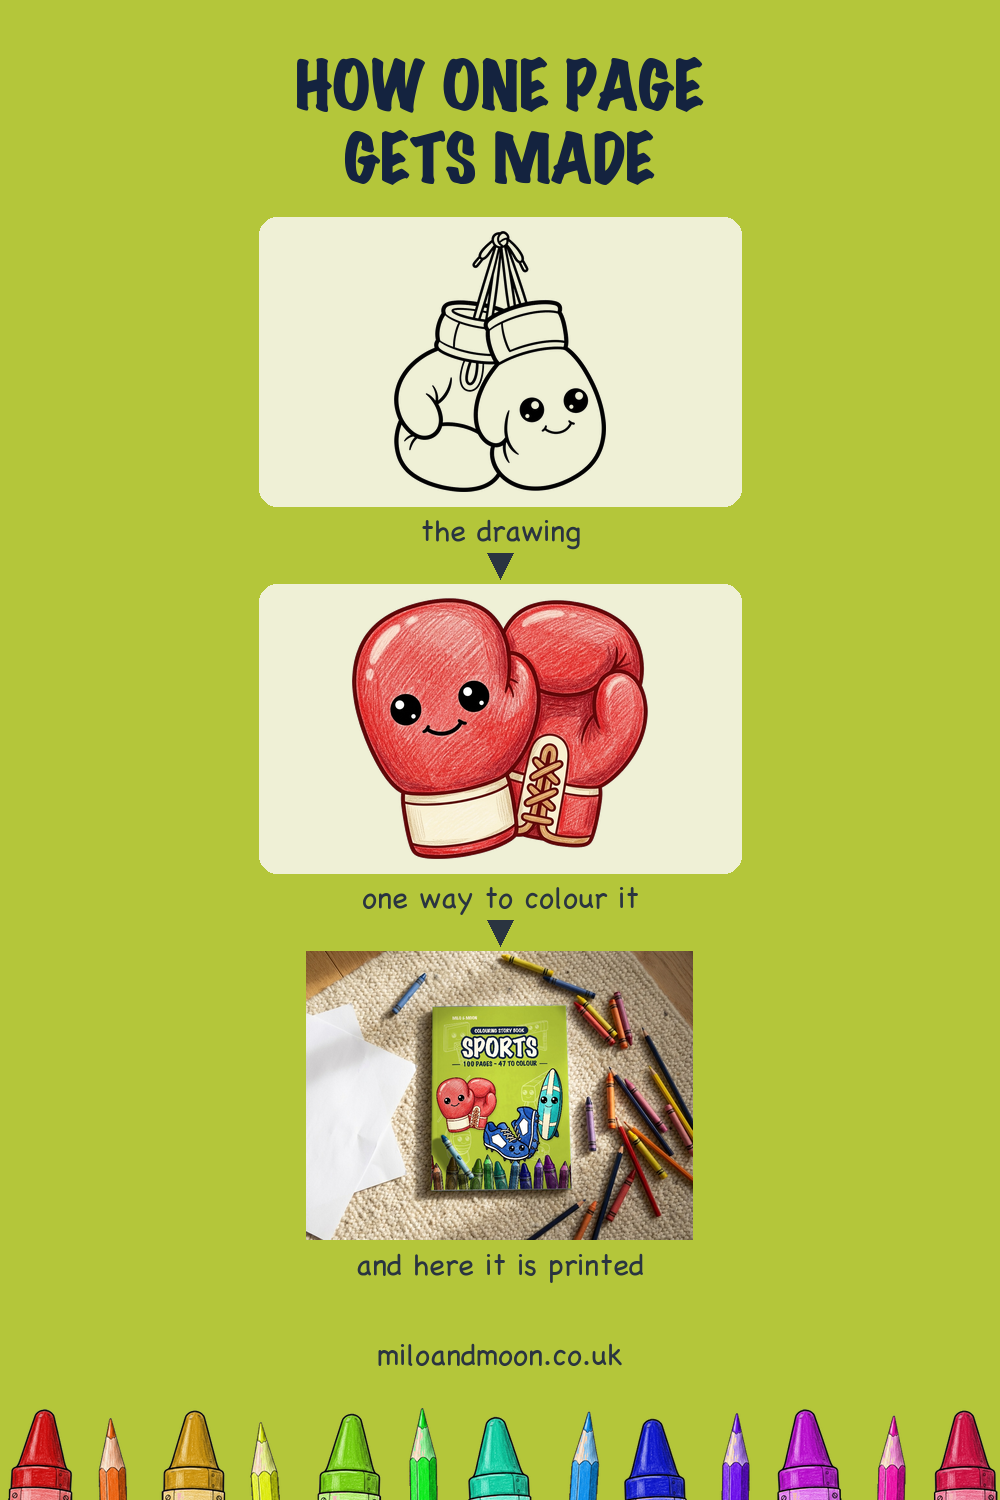
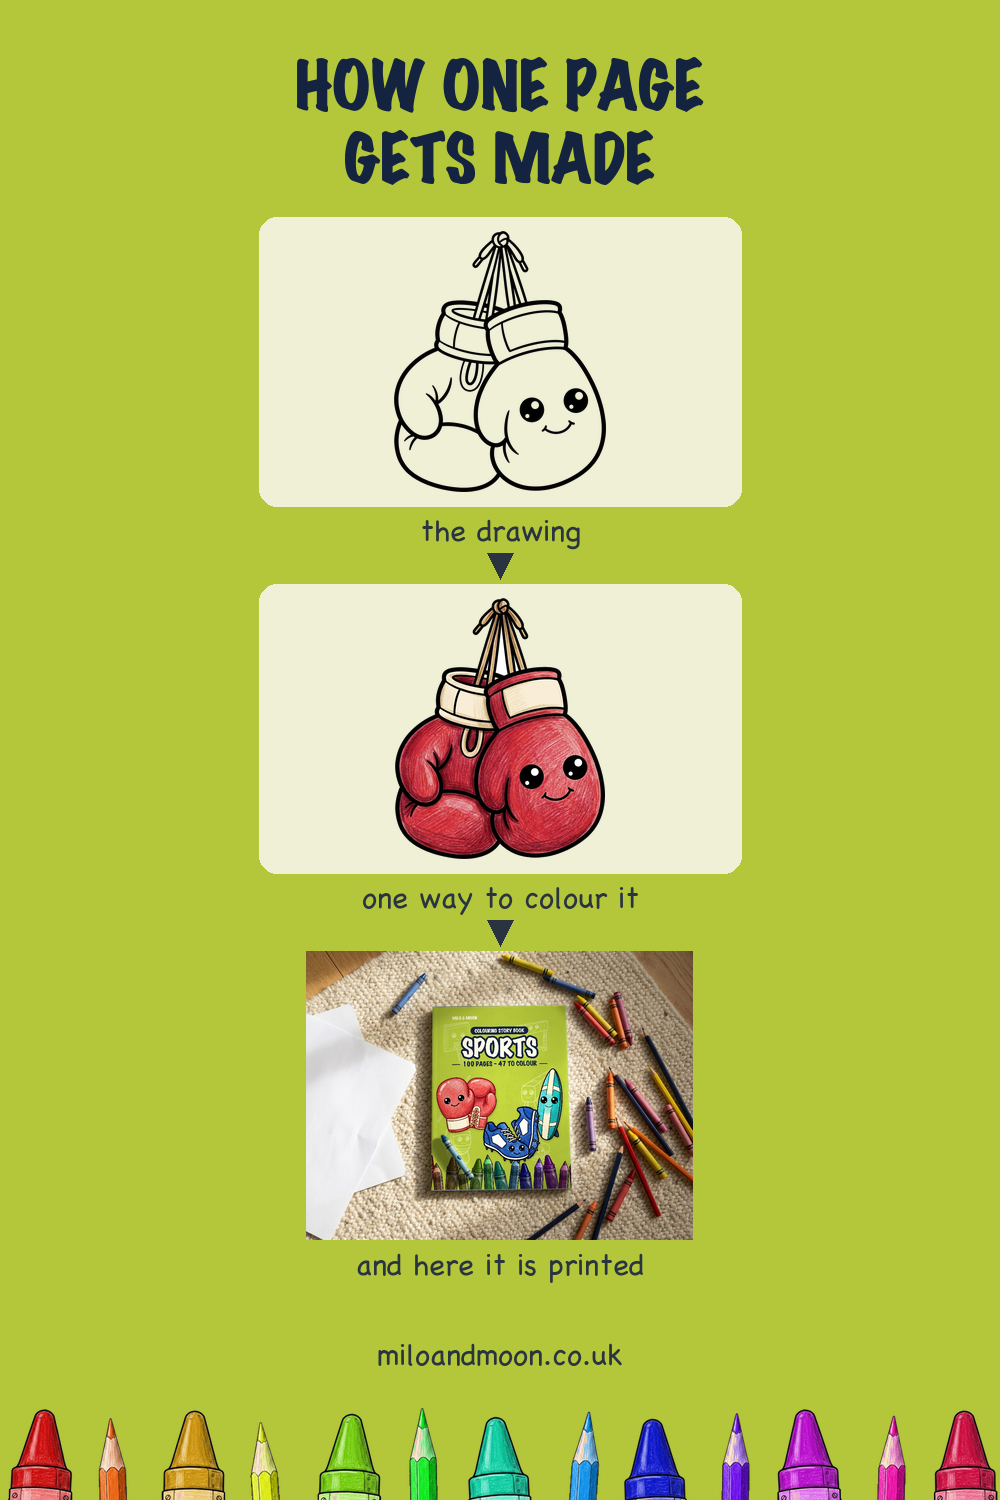
Sports: corrected boxing-gloves cut-out reaches the pin
The coloured cut-out drew the gloves STANDING; interior p32 draws them
hanging from a knotted lace, face on the other glove. Root cause was the
prose in cover-art.md, not the refs: line — the prompt out-votes the
reference. Prompt rewritten to describe the page, art regenerated.

Also carries the Birds US pages from the current build.

Changed region(s): [[0.341, 0.3987, 0.651, 0.5827]]

diff --git a/us/books/birds/index.html b/us/books/birds/index.html
@@ -1,59 +1,59 @@
 <!doctype html>
-<html lang="en-GB">
+<html lang="en-US">
 <head>
 <meta charset="utf-8">
 <meta name="viewport" content="width=device-width, initial-scale=1">
 <meta name="p:domain_verify" content="a6b9eee8fa39a5cff36a09a78f4cf652">
 <title>Birds — Milo &amp; Moon</title>
-<meta name="description" content="One story. Forty-six birds and one barn. A Story and Colouring Book for Kids Ages 4-8. 47 big pictures to colour and one rhyming story, for ages 4 to 8.">
-<link rel="canonical" href="https://miloandmoon.co.uk/books/birds/">
+<meta name="description" content="One story. Forty-six birds and one barn. A Story and Coloring Book for Kids Ages 4-8. 47 big pictures to color and one rhyming story, for ages 4 to 8.">
+<link rel="canonical" href="https://miloandmoon.co.uk/us/books/birds/">
 <link rel="alternate" hreflang="en-GB" href="https://miloandmoon.co.uk/books/birds/">
 <link rel="alternate" hreflang="en-US" href="https://miloandmoon.co.uk/us/books/birds/">
 <link rel="alternate" hreflang="x-default" href="https://miloandmoon.co.uk/books/birds/">
 <meta property="og:type" content="website">
 <meta property="og:site_name" content="Milo &amp; Moon">
-<meta property="og:locale" content="en_GB">
+<meta property="og:locale" content="en_US">
 <meta property="og:title" content="Birds — Milo &amp; Moon">
-<meta property="og:description" content="One story. Forty-six birds and one barn. A Story and Colouring Book for Kids Ages 4-8. 47 big pictures to colour and one rhyming story, for ages 4 to 8.">
-<meta property="og:url" content="https://miloandmoon.co.uk/books/birds/">
-<meta property="og:image" content="https://miloandmoon.co.uk/books/birds/cover-uk.jpg">
+<meta property="og:description" content="One story. Forty-six birds and one barn. A Story and Coloring Book for Kids Ages 4-8. 47 big pictures to color and one rhyming story, for ages 4 to 8.">
+<meta property="og:url" content="https://miloandmoon.co.uk/us/books/birds/">
+<meta property="og:image" content="https://miloandmoon.co.uk/books/birds/cover-us.jpg">
 <meta name="twitter:card" content="summary_large_image">
-<meta name="twitter:image" content="https://miloandmoon.co.uk/books/birds/cover-uk.jpg">
+<meta name="twitter:image" content="https://miloandmoon.co.uk/books/birds/cover-us.jpg">
 <link rel="stylesheet" href="/style.css?v=6da632d3">
 <link rel="icon" href="/favicon.ico" sizes="any">
 <link rel="icon" href="/favicon-32.png" type="image/png" sizes="32x32">
 <link rel="apple-touch-icon" href="/apple-touch-icon.png">
-<script type="application/ld+json">{"@context": "https://schema.org", "@type": "Book", "name": "Birds", "author": {"@type": "Organization", "name": "Milo & Moon"}, "publisher": {"@type": "Organization", "name": "Milo & Moon"}, "bookFormat": "https://schema.org/Paperback", "inLanguage": "en-GB", "numberOfPages": 100, "isbn": "9798170923885", "image": "https://miloandmoon.co.uk/books/birds/cover-uk.jpg", "description": "Summer is ending, and the swallows have one last message to send. Bram sets off with it - and every bird he meets carries it a little further from home.", "typicalAgeRange": "4-8"}</script>
+<script type="application/ld+json">{"@context": "https://schema.org", "@type": "Book", "name": "Birds", "author": {"@type": "Organization", "name": "Milo & Moon"}, "publisher": {"@type": "Organization", "name": "Milo & Moon"}, "bookFormat": "https://schema.org/Paperback", "inLanguage": "en-US", "numberOfPages": 100, "isbn": "9798170924264", "image": "https://miloandmoon.co.uk/books/birds/cover-us.jpg", "description": "Summer is ending, and the swallows have one last message to send. Bram sets off with it - and every bird he meets carries it a little further from home.", "typicalAgeRange": "4-8"}</script>
 </head>
 <body style="--field:#D1F4FF">
 <a class="skip" href="#main">Skip to content</a>
 <header class="site">
-  <a class="brand" href="/">
+  <a class="brand" href="/us/">
     <img src="/brand/logo.png" alt="" width="515" height="520">
     <span>Milo &amp; Moon</span>
   </a>
   <nav>
-    <a href="/kids/colouring-story-books/">Colouring Story Books</a>
-    <a href="/colours/">Colour in</a>
+    <a href="/us/kids/coloring-story-books/">Coloring Story Books</a>
+    <a href="/colors/">Color in</a>
     <label class="lang">
       <span class="vh">Edition</span>
-      <select onchange="location.href=this.value"><option value="/books/birds/" selected>United Kingdom</option><option value="/us/books/birds/">United States</option></select>
+      <select onchange="location.href=this.value"><option value="/books/birds/">United Kingdom</option><option value="/us/books/birds/" selected>United States</option></select>
     </label>
   </nav>
 </header>
 <main id="main">
 
   <article class="title">
-    <div class="art"><picture><source srcset="/books/birds/cover-uk.webp" type="image/webp"><img src="/books/birds/cover-uk.jpg" alt="Front cover of BIRDS, a colouring story book" width="900" height="1165"></picture></div>
+    <div class="art"><picture><source srcset="/books/birds/cover-us.webp" type="image/webp"><img src="/books/birds/cover-us.jpg" alt="Front cover of BIRDS, a coloring story book" width="900" height="1165"></picture></div>
     <div class="copy">
-      <p class="eyebrow">Colouring Story Book</p>
+      <p class="eyebrow">Coloring Story Book</p>
       <h1>Birds</h1>
-      <p class="sub">A Story and Colouring Book for Kids Ages 4-8</p>
+      <p class="sub">A Story and Coloring Book for Kids Ages 4-8</p>
       <p class="lede">One story. Forty-six birds and one barn.</p>
       <p>Summer is ending, and the swallows have one last message to send. Bram sets off with it - and every bird he meets carries it a little further from home.</p>
-      <ul class="bullets"><li>47 big, simple pictures to colour</li><li>A real story, told in rhyme</li><li>Bold clear lines for small hands</li><li>Best with pencils and crayons, not felt-tips</li></ul>
-      <p class="buy soon">Coming soon — <a href="/colours/">see pages we coloured in</a> while you wait.</p>
-      <p class="isbn">ISBN 9798170923885</p>
+      <ul class="bullets"><li>47 big, simple pictures to color</li><li>A real story, told in rhyme</li><li>Bold clear lines for small hands</li><li>Best with pencils and crayons, not markers</li></ul>
+      <p class="buy soon">Coming soon — <a href="/colors/">see pages we colored in</a> while you wait.</p>
+      <p class="isbn">ISBN 9798170924264</p>
     </div>
   </article>
 
@@ -61,11 +61,11 @@
 <div class="crayons" role="presentation"></div>
 <footer class="site">
   <img src="/brand/logo.png" alt="" width="515" height="520">
-  <p><strong>Milo &amp; Moon</strong> makes rhyming picture books to read out loud and colour in.</p>
+  <p><strong>Milo &amp; Moon</strong> makes rhyming picture books to read out loud and color in.</p>
   <p><a href="mailto:hello@miloandmoon.co.uk">hello@miloandmoon.co.uk</a></p>
   <p class="social"><a href="https://www.pinterest.co.uk/miloandmoonbooks/" rel="me noopener" aria-label="Pinterest" title="Pinterest"><svg viewBox="0 0 24 24" width="24" height="24" aria-hidden="true"><path fill="currentColor" d="M12 2a10 10 0 0 0-3.6 19.3c-.1-.8-.2-2 0-2.9l1.2-5.1s-.3-.6-.3-1.5c0-1.4.8-2.4 1.8-2.4.9 0 1.3.6 1.3 1.4 0 .9-.5 2.2-.8 3.4-.2 1 .5 1.8 1.5 1.8 1.8 0 3.2-1.9 3.2-4.7 0-2.4-1.8-4.1-4.3-4.1-2.9 0-4.6 2.2-4.6 4.5 0 .9.3 1.8.8 2.3.1.1.1.2.1.3l-.3 1.1c0 .2-.1.2-.3.1-1.3-.6-2-2.4-2-3.9 0-3.2 2.3-6.1 6.7-6.1 3.5 0 6.2 2.5 6.2 5.8 0 3.5-2.2 6.3-5.2 6.3-1 0-2-.5-2.3-1.2l-.6 2.4c-.2.9-.8 2-1.2 2.6A10 10 0 1 0 12 2z"/></svg></a><a href="https://www.facebook.com/miloandmoonbooks" rel="me noopener" aria-label="Facebook" title="Facebook"><svg viewBox="0 0 24 24" width="24" height="24" aria-hidden="true"><path fill="currentColor" d="M22 12a10 10 0 1 0-11.6 9.9v-7H7.9V12h2.5V9.8c0-2.5 1.5-3.9 3.8-3.9 1.1 0 2.2.2 2.2.2v2.5h-1.3c-1.2 0-1.6.8-1.6 1.6V12h2.8l-.4 2.9h-2.4v7A10 10 0 0 0 22 12z"/></svg></a><a href="https://www.instagram.com/miloandmoonbooks/" rel="me noopener" aria-label="Instagram" title="Instagram"><svg viewBox="0 0 24 24" width="24" height="24" aria-hidden="true"><path fill="currentColor" d="M12 2.2c3.2 0 3.6 0 4.9.1 3.3.1 4.8 1.7 4.9 4.9.1 1.3.1 1.7.1 4.8s0 3.6-.1 4.9c-.1 3.2-1.7 4.8-4.9 4.9-1.3.1-1.7.1-4.9.1s-3.6 0-4.9-.1c-3.2-.1-4.8-1.7-4.9-4.9C2.2 15.6 2.2 15.2 2.2 12s0-3.6.1-4.9c.1-3.2 1.7-4.8 4.9-4.9 1.3-.1 1.7-.1 4.8-.1zm0 3.1a6.7 6.7 0 1 0 0 13.4 6.7 6.7 0 0 0 0-13.4zm0 11a4.3 4.3 0 1 1 0-8.6 4.3 4.3 0 0 1 0 8.6zm6.9-11.2a1.6 1.6 0 1 0 0 3.1 1.6 1.6 0 0 0 0-3.1z"/></svg></a></p>
-  <p class="fine">You are reading the United Kingdom edition.
-     <a href="/us/books/birds/">Switch to United States</a>.</p>
+  <p class="fine">You are reading the United States edition.
+     <a href="/books/birds/">Switch to United Kingdom</a>.</p>
   <p class="fine">No cookies. No tracking. No forms. Nothing to consent to.
      <a href="/privacy/">Privacy</a></p>
 </footer>

diff --git a/us/kids/coloring-story-books/index.html b/us/kids/coloring-story-books/index.html
@@ -23,7 +23,7 @@
 <link rel="icon" href="/favicon.ico" sizes="any">
 <link rel="icon" href="/favicon-32.png" type="image/png" sizes="32x32">
 <link rel="apple-touch-icon" href="/apple-touch-icon.png">
-<script type="application/ld+json">{"@context": "https://schema.org", "@type": "ItemList", "name": "Coloring Story Books", "itemListElement": [{"@type": "ListItem", "position": 1, "url": "https://miloandmoon.co.uk/us/books/animals/", "name": "Animals"}, {"@type": "ListItem", "position": 2, "url": "https://miloandmoon.co.uk/us/books/butterflies-flowers/", "name": "Butterflies & Flowers"}, {"@type": "ListItem", "position": 3, "url": "https://miloandmoon.co.uk/us/books/christmas/", "name": "Christmas"}, {"@type": "ListItem", "position": 4, "url": "https://miloandmoon.co.uk/us/books/dinosaurs/", "name": "Dinosaurs"}, {"@type": "ListItem", "position": 5, "url": "https://miloandmoon.co.uk/us/books/mermaids/", "name": "Mermaids"}, {"@type": "ListItem", "position": 6, "url": "https://miloandmoon.co.uk/us/books/sea-creatures/", "name": "Sea Creatures"}, {"@type": "ListItem", "position": 7, "url": "https://miloandmoon.co.uk/us/books/unicorns/", "name": "Unicorns"}, {"@type": "ListItem", "position": 8, "url": "https://miloandmoon.co.uk/us/books/vehicles/", "name": "Vehicles"}]}</script>
+<script type="application/ld+json">{"@context": "https://schema.org", "@type": "ItemList", "name": "Coloring Story Books", "itemListElement": [{"@type": "ListItem", "position": 1, "url": "https://miloandmoon.co.uk/us/books/animals/", "name": "Animals"}, {"@type": "ListItem", "position": 2, "url": "https://miloandmoon.co.uk/us/books/birds/", "name": "Birds"}, {"@type": "ListItem", "position": 3, "url": "https://miloandmoon.co.uk/us/books/butterflies-flowers/", "name": "Butterflies & Flowers"}, {"@type": "ListItem", "position": 4, "url": "https://miloandmoon.co.uk/us/books/christmas/", "name": "Christmas"}, {"@type": "ListItem", "position": 5, "url": "https://miloandmoon.co.uk/us/books/dinosaurs/", "name": "Dinosaurs"}, {"@type": "ListItem", "position": 6, "url": "https://miloandmoon.co.uk/us/books/mermaids/", "name": "Mermaids"}, {"@type": "ListItem", "position": 7, "url": "https://miloandmoon.co.uk/us/books/sea-creatures/", "name": "Sea Creatures"}, {"@type": "ListItem", "position": 8, "url": "https://miloandmoon.co.uk/us/books/unicorns/", "name": "Unicorns"}, {"@type": "ListItem", "position": 9, "url": "https://miloandmoon.co.uk/us/books/vehicles/", "name": "Vehicles"}]}</script>
 </head>
 <body style="--field:#FBECD5">
 <a class="skip" href="#main">Skip to content</a>
@@ -57,9 +57,18 @@
           <span class="market soon">coming soon</span>
         </div>
       </a>
+      <a class="book" href="/us/books/birds/"
+         style="--field:#D1F4FF;--tilt:2.2deg">
+        <span class="shelf"><picture><source srcset="/books/birds/cover-us.webp" type="image/webp"><img src="/books/birds/cover-us.jpg" alt="Birds, a coloring story book" width="900" height="1165"></picture></span>
+        <div class="meta">
+          <h2 class="bt">Birds</h2>
+          <span class="bd">One story. Forty-six birds and one barn.</span>
+          <span class="market soon">coming soon</span>
+        </div>
+      </a>
       <a class="book" href="/us/books/butterflies-flowers/"
-         style="--field:#FFE6E6;--tilt:2.2deg">
-        <span class="shelf"><picture><source srcset="/books/butterflies-flowers/cover-us.webp" type="image/webp"><img src="/books/butterflies-flowers/cover-us.jpg" alt="Butterflies &amp; Flowers, a coloring story book" width="900" height="1165"></picture></span>
+         style="--field:#FFE6E6;--tilt:-1.6deg">
+        <span class="shelf"><picture><source srcset="/books/butterflies-flowers/cover-us.webp" type="image/webp"><img src="/books/butterflies-flowers/cover-us.jpg" alt="Butterflies &amp; Flowers, a coloring story book" width="900" height="1165" loading="lazy"></picture></span>
         <div class="meta">
           <h2 class="bt">Butterflies &amp; Flowers</h2>
           <span class="bd">One story. Butterflies, flowers, and one caterpillar.</span>
@@ -67,7 +76,7 @@
         </div>
       </a>
       <a class="book" href="/us/books/christmas/"
-         style="--field:#DCF4E1;--tilt:-1.6deg">
+         style="--field:#DCF4E1;--tilt:3.0deg">
         <span class="shelf"><picture><source srcset="/books/christmas/cover-us.webp" type="image/webp"><img src="/books/christmas/cover-us.jpg" alt="Christmas, a coloring story book" width="900" height="1165" loading="lazy"></picture></span>
         <div class="meta">
           <h2 class="bt">Christmas</h2>
@@ -76,7 +85,7 @@
         </div>
       </a>
       <a class="book" href="/us/books/dinosaurs/"
-         style="--field:#E2F3DC;--tilt:3.0deg">
+         style="--field:#E2F3DC;--tilt:-2.4deg">
         <span class="shelf"><picture><source srcset="/books/dinosaurs/cover-us.webp" type="image/webp"><img src="/books/dinosaurs/cover-us.jpg" alt="Dinosaurs, a coloring story book" width="900" height="1165" loading="lazy"></picture></span>
         <div class="meta">
           <h2 class="bt">Dinosaurs</h2>
@@ -85,7 +94,7 @@
         </div>
       </a>
       <a class="book" href="/us/books/mermaids/"
-         style="--field:#FFE6F6;--tilt:-2.4deg">
+         style="--field:#FFE6F6;--tilt:1.4deg">
         <span class="shelf"><picture><source srcset="/books/mermaids/cover-us.webp" type="image/webp"><img src="/books/mermaids/cover-us.jpg" alt="Mermaids, a coloring story book" width="900" height="1165" loading="lazy"></picture></span>
         <div class="meta">
           <h2 class="bt">Mermaids</h2>
@@ -94,7 +103,7 @@
         </div>
       </a>
       <a class="book" href="/us/books/sea-creatures/"
-         style="--field:#D0F5F1;--tilt:1.4deg">
+         style="--field:#D0F5F1;--tilt:-3.0deg">
         <span class="shelf"><picture><source srcset="/books/sea-creatures/cover-us.webp" type="image/webp"><img src="/books/sea-creatures/cover-us.jpg" alt="Sea Creatures, a coloring story book" width="900" height="1165" loading="lazy"></picture></span>
         <div class="meta">
           <h2 class="bt">Sea Creatures</h2>
@@ -103,7 +112,7 @@
         </div>
       </a>
       <a class="book" href="/us/books/unicorns/"
-         style="--field:#F3EAFF;--tilt:-3.0deg">
+         style="--field:#F3EAFF;--tilt:2.2deg">
         <span class="shelf"><picture><source srcset="/books/unicorns/cover-us.webp" type="image/webp"><img src="/books/unicorns/cover-us.jpg" alt="Unicorns, a coloring story book" width="900" height="1165" loading="lazy"></picture></span>
         <div class="meta">
           <h2 class="bt">Unicorns</h2>
@@ -112,7 +121,7 @@
         </div>
       </a>
       <a class="book" href="/us/books/vehicles/"
-         style="--field:#FBECD5;--tilt:2.2deg">
+         style="--field:#FBECD5;--tilt:-1.6deg">
         <span class="shelf"><picture><source srcset="/books/vehicles/cover-us.webp" type="image/webp"><img src="/books/vehicles/cover-us.jpg" alt="Vehicles, a coloring story book" width="900" height="1165" loading="lazy"></picture></span>
         <div class="meta">
           <h2 class="bt">Vehicles</h2>

diff --git a/us/index.html b/us/index.html
@@ -55,32 +55,36 @@
          style="--tilt:-3.0deg;--field:#FFE7DC">
         <picture><source srcset="/books/animals/cover-us.webp" type="image/webp"><img src="/books/animals/cover-us.jpg" alt="Animals, a coloring story book" width="900" height="1165"></picture>
       </a>
+      <a class="fanned" href="/us/books/birds/"
+         style="--tilt:2.2deg;--field:#D1F4FF">
+        <picture><source srcset="/books/birds/cover-us.webp" type="image/webp"><img src="/books/birds/cover-us.jpg" alt="Birds, a coloring story book" width="900" height="1165"></picture>
+      </a>
       <a class="fanned" href="/us/books/butterflies-flowers/"
-         style="--tilt:2.2deg;--field:#FFE6E6">
+         style="--tilt:-1.6deg;--field:#FFE6E6">
         <picture><source srcset="/books/butterflies-flowers/cover-us.webp" type="image/webp"><img src="/books/butterflies-flowers/cover-us.jpg" alt="Butterflies &amp; Flowers, a coloring story book" width="900" height="1165"></picture>
       </a>
       <a class="fanned" href="/us/books/christmas/"
-         style="--tilt:-1.6deg;--field:#DCF4E1">
-        <picture><source srcset="/books/christmas/cover-us.webp" type="image/webp"><img src="/books/christmas/cover-us.jpg" alt="Christmas, a coloring story book" width="900" height="1165"></picture>
+         style="--tilt:3.0deg;--field:#DCF4E1">
+        <picture><source srcset="/books/christmas/cover-us.webp" type="image/webp"><img src="/books/christmas/cover-us.jpg" alt="Christmas, a coloring story book" width="900" height="1165" loading="lazy"></picture>
       </a>
       <a class="fanned" href="/us/books/dinosaurs/"
-         style="--tilt:3.0deg;--field:#E2F3DC">
+         style="--tilt:-2.4deg;--field:#E2F3DC">
         <picture><source srcset="/books/dinosaurs/cover-us.webp" type="image/webp"><img src="/books/dinosaurs/cover-us.jpg" alt="Dinosaurs, a coloring story book" width="900" height="1165" loading="lazy"></picture>
       </a>
       <a class="fanned" href="/us/books/mermaids/"
-         style="--tilt:-2.4deg;--field:#FFE6F6">
+         style="--tilt:1.4deg;--field:#FFE6F6">
         <picture><source srcset="/books/mermaids/cover-us.webp" type="image/webp"><img src="/books/mermaids/cover-us.jpg" alt="Mermaids, a coloring story book" width="900" height="1165" loading="lazy"></picture>
       </a>
       <a class="fanned" href="/us/books/sea-creatures/"
-         style="--tilt:1.4deg;--field:#D0F5F1">
+         style="--tilt:-3.0deg;--field:#D0F5F1">
         <picture><source srcset="/books/sea-creatures/cover-us.webp" type="image/webp"><img src="/books/sea-creatures/cover-us.jpg" alt="Sea Creatures, a coloring story book" width="900" height="1165" loading="lazy"></picture>
       </a>
       <a class="fanned" href="/us/books/unicorns/"
-         style="--tilt:-3.0deg;--field:#F3EAFF">
+         style="--tilt:2.2deg;--field:#F3EAFF">
         <picture><source srcset="/books/unicorns/cover-us.webp" type="image/webp"><img src="/books/unicorns/cover-us.jpg" alt="Unicorns, a coloring story book" width="900" height="1165" loading="lazy"></picture>
       </a>
       <a class="fanned" href="/us/books/vehicles/"
-         style="--tilt:2.2deg;--field:#FBECD5">
+         style="--tilt:-1.6deg;--field:#FBECD5">
         <picture><source srcset="/books/vehicles/cover-us.webp" type="image/webp"><img src="/books/vehicles/cover-us.jpg" alt="Vehicles, a coloring story book" width="900" height="1165" loading="lazy"></picture>
       </a></div>
   </section>
